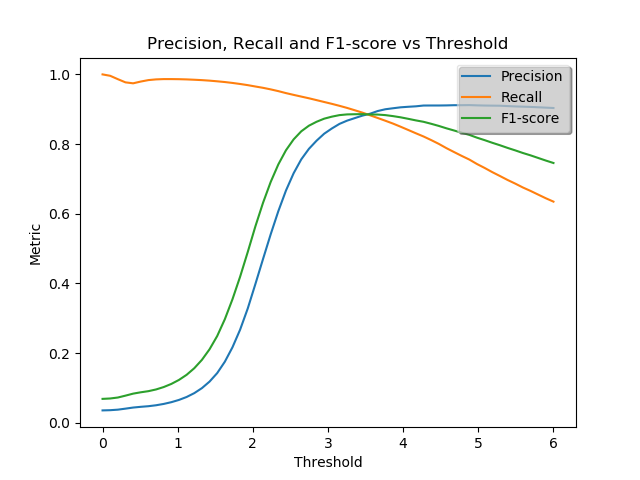
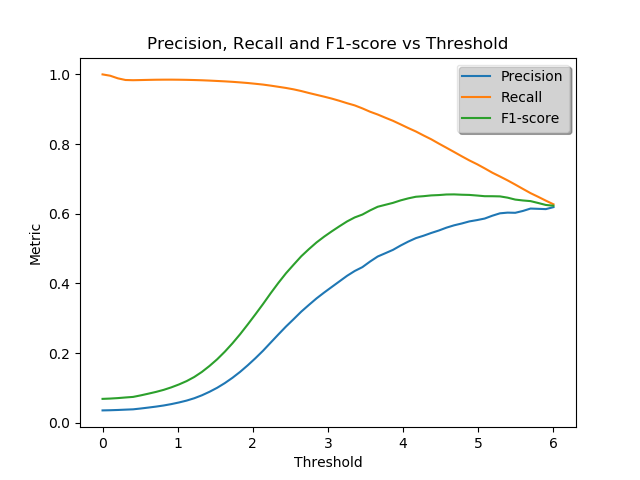
fill holes and auc

diff --git a/video_surveillance.py b/video_surveillance.py
@@ -17,7 +17,9 @@ from tools import visualization
 from tools.image_parser import get_image_list_changedetection_dataset, get_image_list_kitti_dataset
 from tools.log import setup_logging
 from tools.mkdirs import mkdirs
+from skimage import morphology
 
+EPSILON = 1e-8
 
 def evaluation_metrics(cf):
     logger = logging.getLogger(__name__)
@@ -260,12 +262,66 @@ def foreground_estimation(cf):
     foreground_img_list = imageList[(len(imageList) // 2):]
     foreground_gt_list = gtList[(len(imageList) // 2):]
 
+    if cf.save_results:
+        logger.info('Saving results in {}'.format(cf.results_path))
+        mkdirs(cf.results_path)
+
     mean, variance = background_modeling.multivariative_gaussian_modelling(background_img_list, cf.color_space)
 
-    for image in foreground_img_list:
-        foreground, mean, variance = background_modeling.adaptive_foreground_estimation_color(
-            image, mean, variance, cf.alpha, cf.rho, cf.color_space
-        )
+    hole_sizes = np.linspace(cf.hole_size_range[0], cf.hole_size_range[1], 100, dtype='uint8')
+
+    precision = []
+    recall = []
+    best_f1 = 0
+    best_size = 0
+    i = 1
+    for size in hole_sizes:
+
+        logger.info('[{} of {}]\tsize={:.2f}'.format(i, len(hole_sizes), size))
+
+        tp = 0
+        fp = 0
+        tn = 0
+        fn = 0
+
+        for (image, gt) in zip(foreground_img_list, foreground_gt_list):
+
+            gt_img = cv.imread(image,  cv.IMREAD_GRAYSCALE)
+            foreground, mean, variance = background_modeling.adaptive_foreground_estimation_color(
+                image, mean, variance, cf.alpha, cf.rho, cf.color_space
+            )
+            foreground_fill = morphology.remove_small_holes(foreground, size, connectivity=cf.connectivity)
+
+            tp_temp, fp_temp, tn_temp, fn_temp = segmentation_metrics.evaluate_single_image(foreground_fill, gt_img)
+
+            tp += tp_temp
+            fp += fp_temp
+            tn += tn_temp
+            fn += fn_temp
+
+            if cf.save_results:
+                image_name = os.path.basename(image)
+                image_name = os.path.splitext(image_name)[0]
+                fore = np.array(foreground_fill, dtype='uint8') * 255
+                cv.imwrite(os.path.join(cf.results_path, image_name + '.' + cf.result_image_type), fore)
+
+        pre = tp / (tp + fp) if (tp + fp) > 0 else 0.0
+        rec = tp / (tp + fn) if (tp + fn) > 0 else 0.0
+        f1 = 2 * pre * rec / (pre + rec + EPSILON)
+
+        precision.append(tp / (tp + fp) if (tp + fp) > 0 else 0.0)
+        recall.append(tp / (tp + fn) if (tp + fn) > 0 else 0.0)
+        if f1 > best_f1:
+            best_f1 = f1
+            best_size = size
+
+        i += 1
+
+    area = visualization.plot_precision_recall_curve(precision, recall, cf.output_folder)
+
+    logger.info('Best hole size: {:.3f}'.format(best_size))
+    logger.info('Best F1-score: {:.3f}'.format(best_f1))
+    logger.info('AUC: {:.3f}'.format(area))
 
 
 # Main function

diff --git a/config/highway_background.py b/config/highway_background.py
@@ -2,7 +2,7 @@
 dataset_name                 = 'highway'                        # Dataset name
 dataset_path                 = 'datasets/highway/input'         # Dataset path
 gt_path                      = 'datasets/highway/groundtruth'   # Ground truth path
-results_path                 = 'datasets/highway/results/color_adaptive'
+results_path                 = 'datasets/highway/results/fill'
 
 # Input Images
 nr_images                    = 300
@@ -18,13 +18,17 @@ rho                           = 0.211
 modelling_method              = 'adaptive'  # adaptive instead
 color_images                  = True        # Use RGB, HSV color channels
 color_space                   = "RGB"       # RGB, HSV
-evaluate_foreground           = False
+evaluate_foreground           = True
 evaluate_alpha_range          = [0, 6]      # range of alpha values
 evaluate_alpha_values         = 60          # number of alpha values to evaluate
 evaluate_rho_range            = [0, 1]      # range of rho values
 evaluate_rho_values           = 20          # number of rho values to evaluate
 find_best_parameters          = True
 plot_back_model               = False
+
+# Foreground Modelling
+connectivity                  = 4
+hole_size_range               = [0, 1000]    # range of hole size values
 
 # Save results
 save_results                 = True        # Save Log file

diff --git a/tools/visualization.py b/tools/visualization.py
@@ -33,20 +33,21 @@ def plot_metrics_vs_threshold(precision, recall, F1_score, threshold,
 
 
 def plot_precision_recall_curve(precision, recall, output_folder=""):
-    plt.step(recall, precision, color='b', alpha=0.2,
-             where='post')
-    plt.fill_between(recall, precision, step='post', alpha=0.2,
-                     color='b')
+    plt.plot(recall, precision, color='b')
     average_precision = reduce(lambda x, y: x + y, precision) / len(precision)
     plt.xlabel('Recall')
     plt.ylabel('Precision')
-    plt.ylim([min(precision), max(precision)])
-    plt.xlim([min(recall), max(recall)])
+    plt.ylim([0, 1])
+    plt.xlim([0, 1])
     plt.title('Precision-Recall curve: Avg Prec ={0:0.2f}'.format(average_precision))
     if output_folder != "":
         plt.savefig(os.path.join(output_folder, "task_1_2_precision_recall.png"))
     plt.show(block=False)
     plt.close()
+
+    area = auc(recall, precision, reorder=True)
+
+    return area
 
 
 def plot_AUC_curve(tpr, fpr, output_folder=""):

diff --git a/config/fall_background.py b/config/fall_background.py
@@ -26,6 +26,10 @@ evaluate_rho_values           = 20          # number of rho values to evaluate
 find_best_parameters          = False
 plot_back_model               = False
 
+# Foreground Modelling
+connectivity                  = 4
+hole_size_range               = [0, 100]    # range of hole size values
+
 # Save results
 save_results                 = True        # Save Log file
 output_folder                = 'results'   # Output folder to save the results of the test

diff --git a/config/traffic_background.py b/config/traffic_background.py
@@ -26,6 +26,10 @@ evaluate_rho_values           = 20          # number of rho values to evaluate
 find_best_parameters          = True
 plot_back_model               = False
 
+# Foreground Modelling
+connectivity                  = 4
+hole_size_range               = [0, 100]    # range of hole size values
+
 # Save results
 save_results                 = True        # Save Log file
 output_folder                = 'results'   # Output folder to save the results of the test
